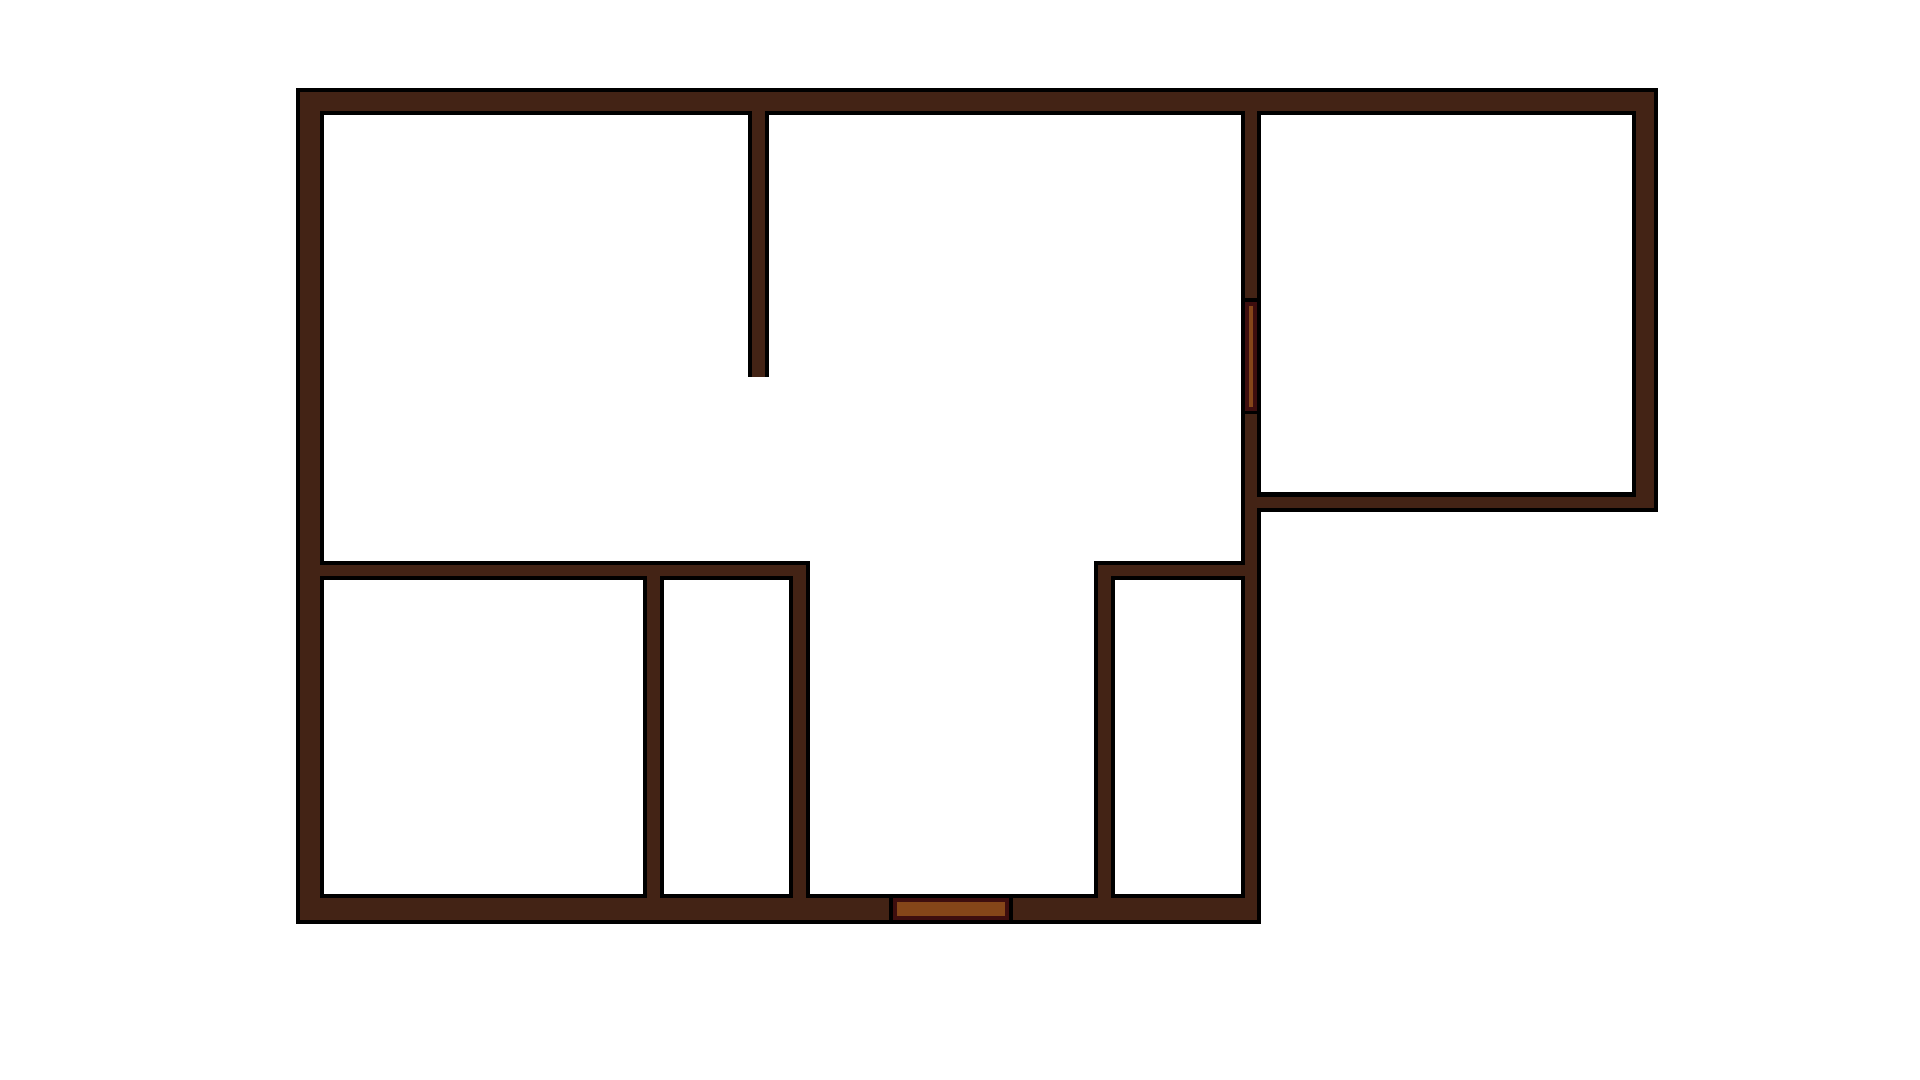
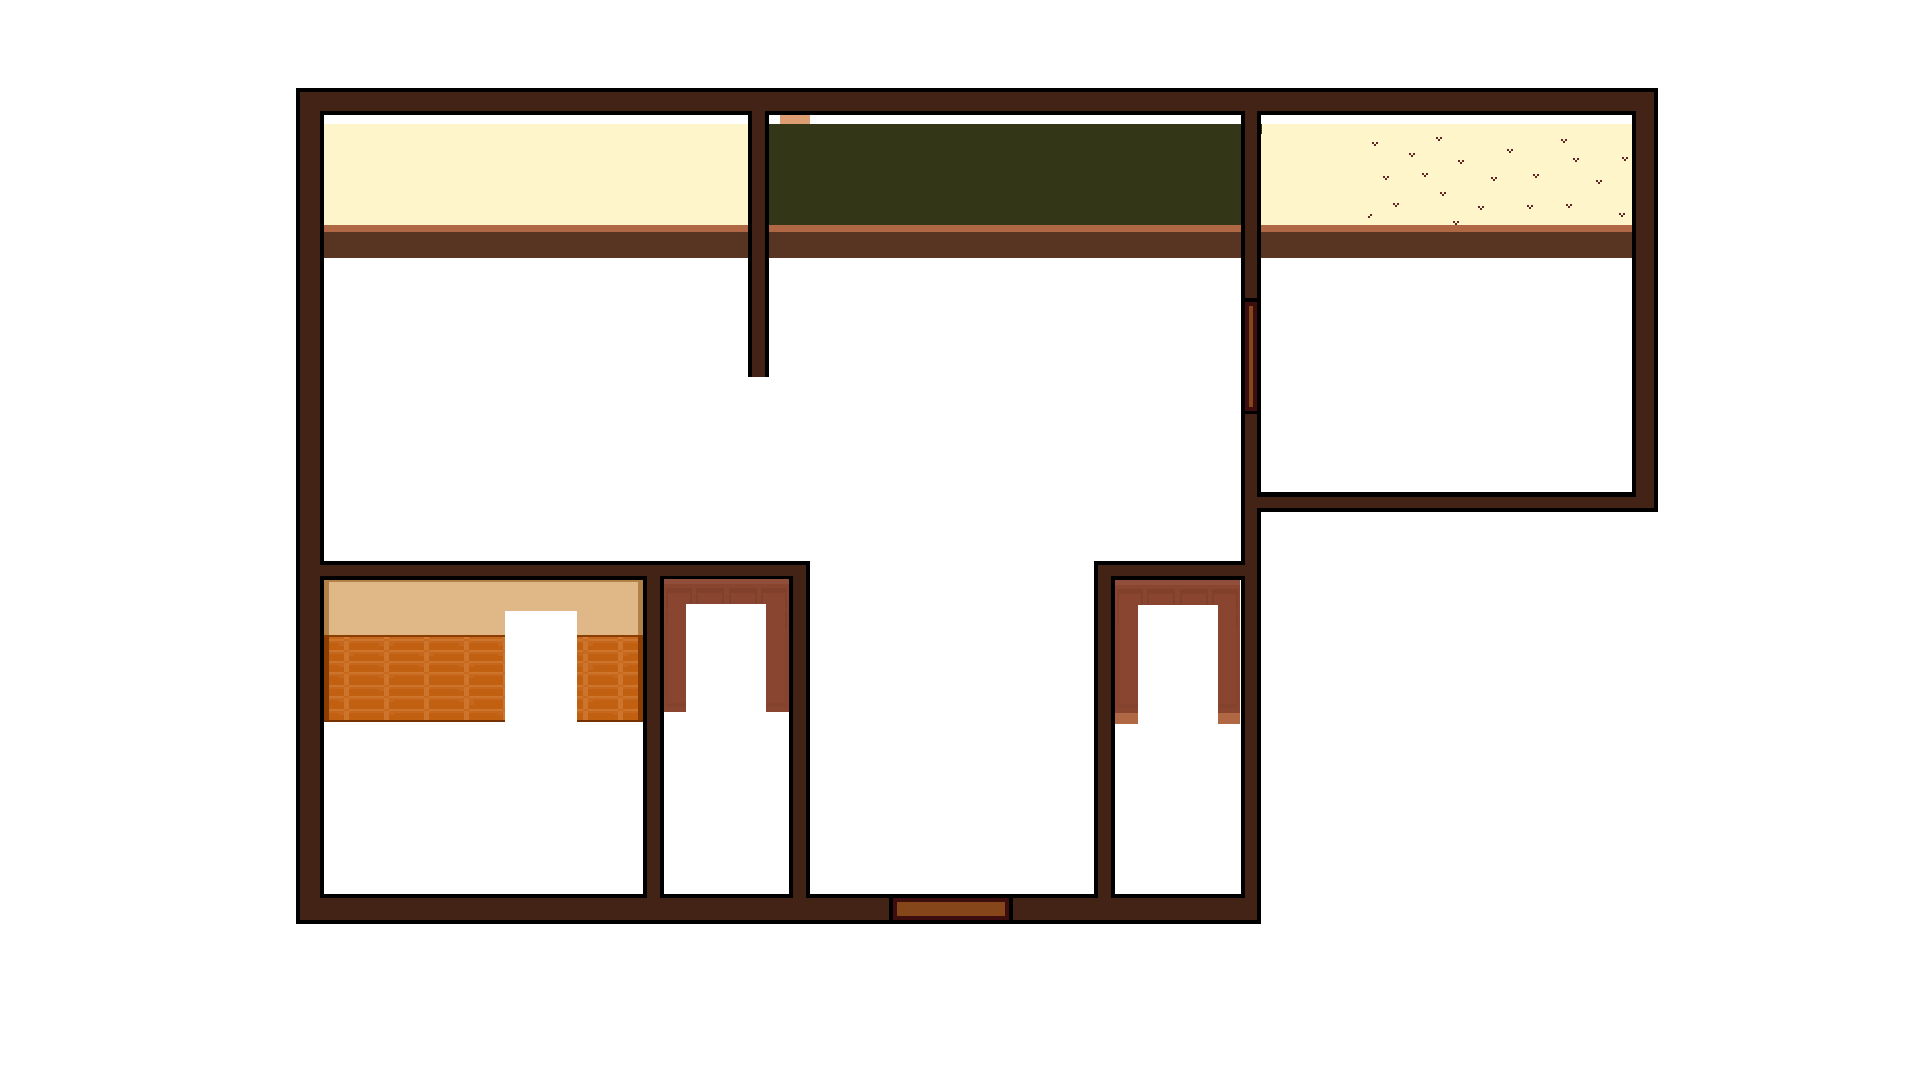
update the house layout and add separated door

Changed region(s): [[0.1562, 0.0917, 0.875, 0.2444], [0.1562, 0.5194, 0.4375, 0.6722], [0.5625, 0.5194, 0.6562, 0.6722]]

diff --git a/linger/src/scenes/AssetLoader.js b/linger/src/scenes/AssetLoader.js
@@ -39,6 +39,9 @@ class AssetLoader extends Phaser.Scene {
         // Load the ceiling layout
         this.load.image('layout-ceiling', 'assets/environment/layout-ceiling.png');
 
+        // Load the door
+        this.load.image('door', 'assets/environment/door.png');
+
         // Load the spritesheet for Rem's animation
         this.load.spritesheet('player', 'assets/characters/rem.png', { 
             frameWidth: 64, 
